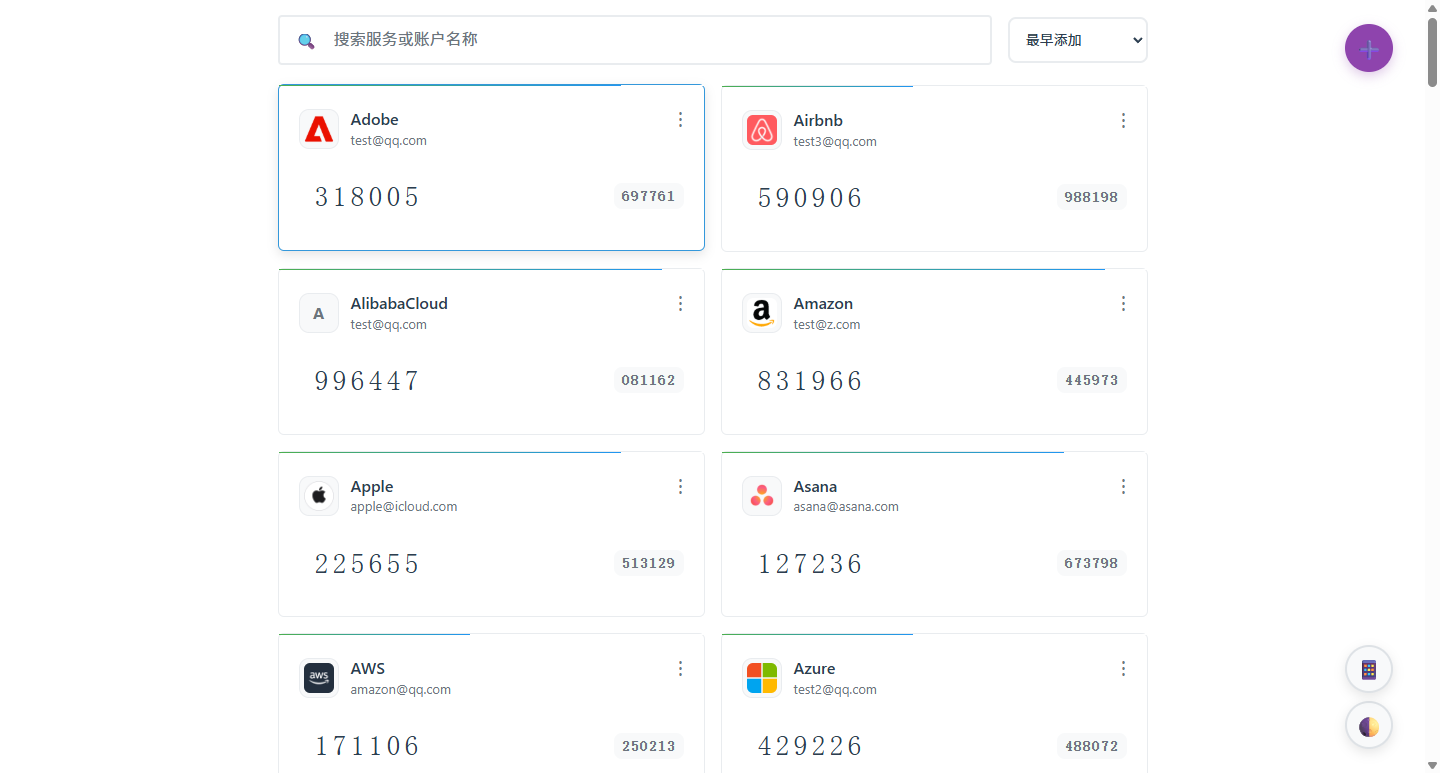
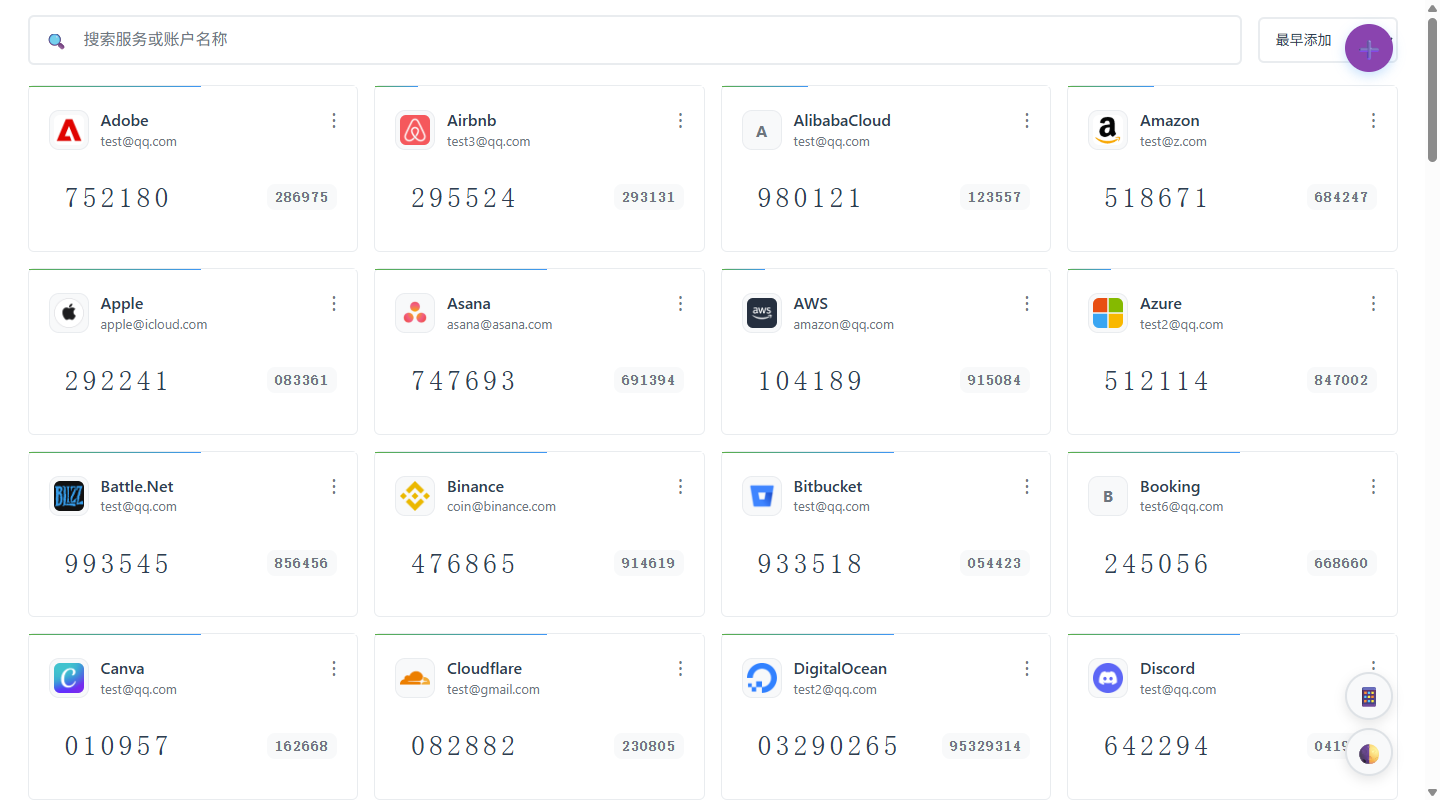
feat(ui): responsive multi-column grid layout for secret cards
Use CSS Grid auto-fill + minmax to dynamically determine column count
based on screen width, replacing fixed 2-column layout. Widen desktop
container from 900px to 1400px. Update desktop screenshot to reflect
the new 4-column layout.

diff --git a/src/ui/styles/responsive.js b/src/ui/styles/responsive.js
@@ -570,16 +570,16 @@ export function getResponsiveStyles() {
       }
       
       .secrets-list {
-        grid-template-columns: 1fr 1fr;
+        grid-template-columns: repeat(auto-fill, minmax(240px, 1fr));
         gap: 12px;
         justify-content: center;
         text-align: left;
       }
-      
+
       .content {
         text-align: center;
       }
-      
+
       .secret-header {
         flex-wrap: nowrap;
         align-items: center;
@@ -653,9 +653,9 @@ export function getResponsiveStyles() {
         max-width: 750px;
       }
 
-      /* iPad 和平板两列卡片布局 */
+      /* iPad 和平板动态多列卡片布局 */
       .secrets-list {
-        grid-template-columns: 1fr 1fr;
+        grid-template-columns: repeat(auto-fill, minmax(280px, 1fr));
         gap: 14px;
         justify-content: center;
         text-align: left;
@@ -838,11 +838,11 @@ export function getResponsiveStyles() {
       }
 
       .container {
-        max-width: 900px;
+        max-width: 1400px;
       }
 
       .secrets-list {
-        grid-template-columns: 1fr 1fr;
+        grid-template-columns: repeat(auto-fill, minmax(280px, 1fr));
         gap: 16px;
         justify-content: center;
         text-align: left;

diff --git a/src/ui/styles/components.js b/src/ui/styles/components.js
@@ -4,7 +4,7 @@
 export function getComponentStyles() {
 	return `    .secrets-list {
       display: grid;
-      grid-template-columns: 1fr;
+      grid-template-columns: repeat(auto-fill, minmax(280px, 1fr));
       gap: 10px;
       justify-content: center;
       margin: 0 auto;
